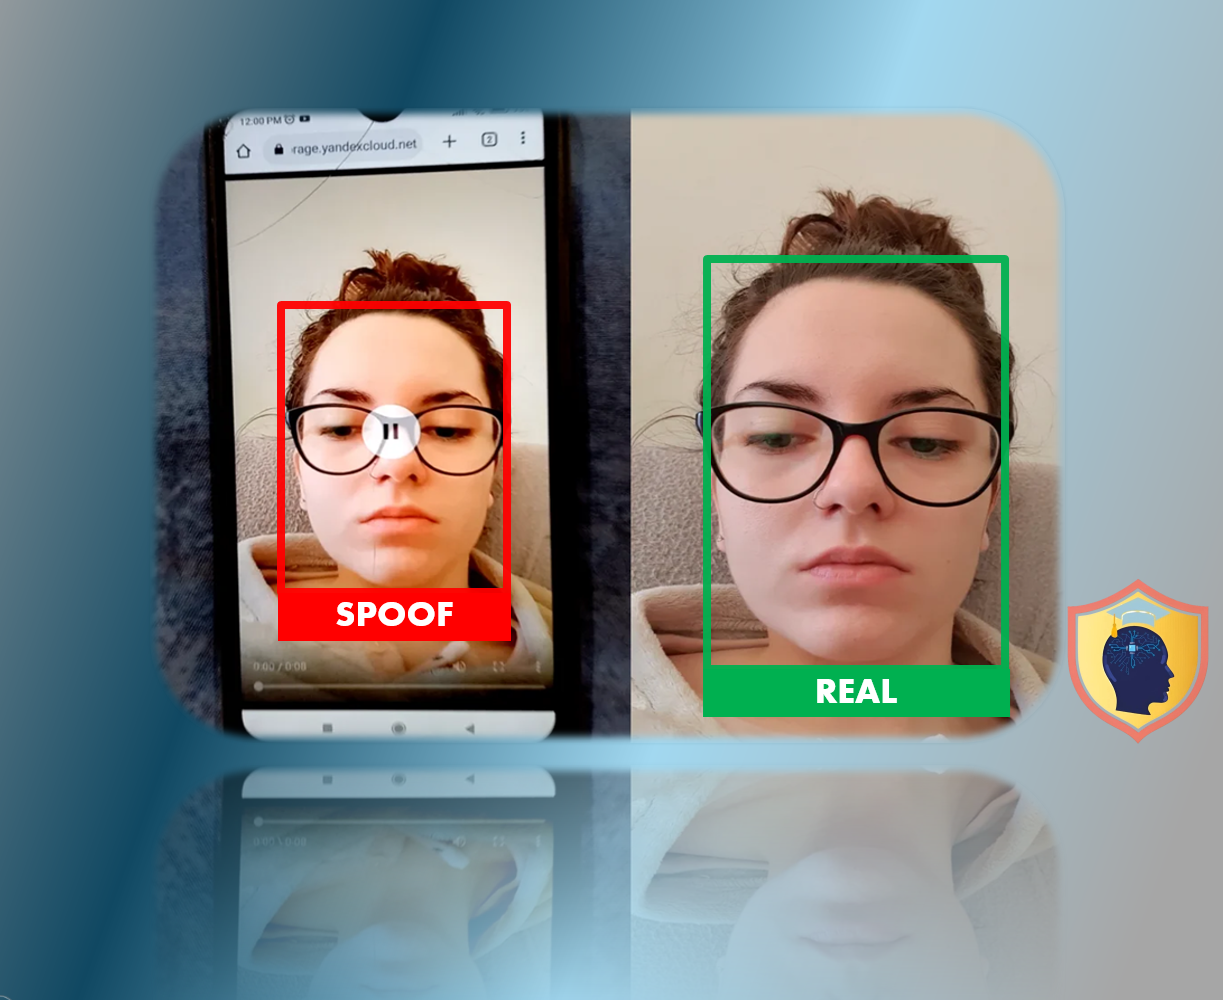
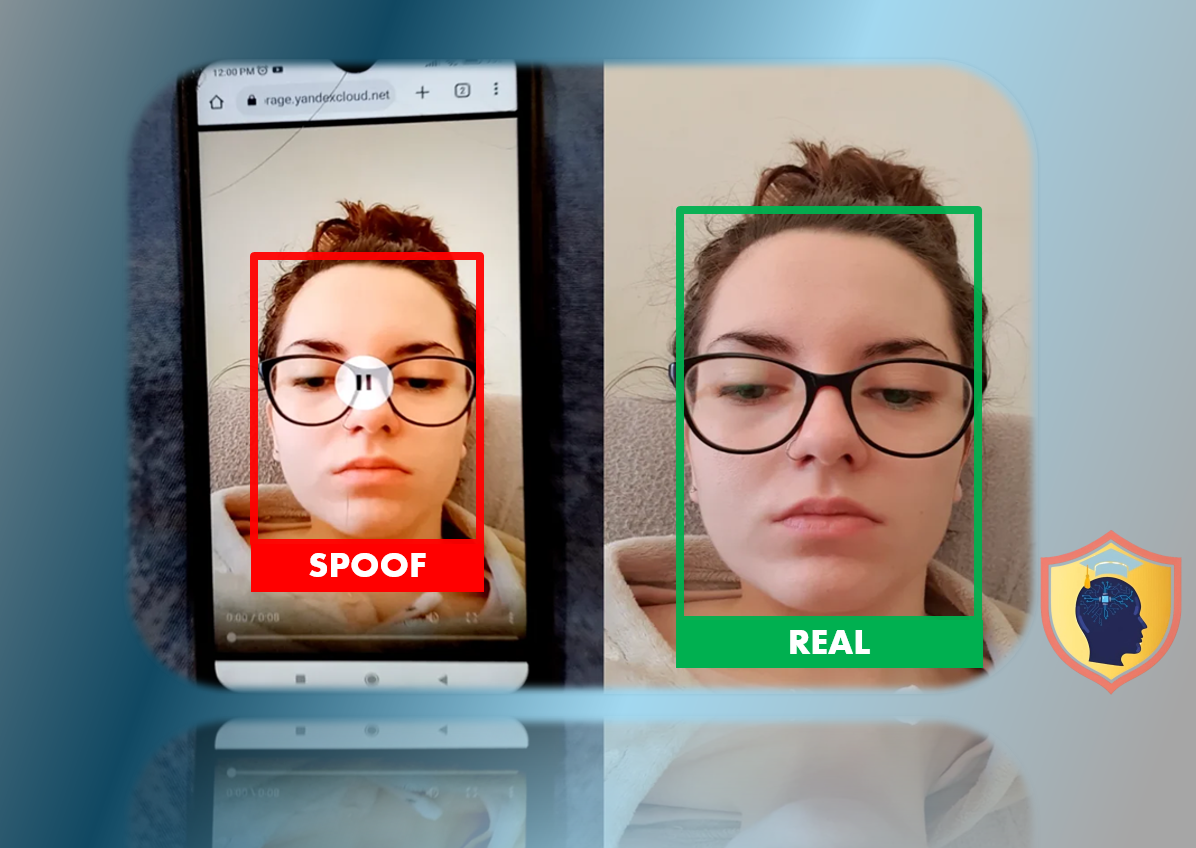
Change landing page style

diff --git a/src/components/ui/bento-grid/Bento.tsx b/src/components/ui/bento-grid/Bento.tsx
@@ -22,8 +22,9 @@ const BentoGrid = ({ children, className, ...props }: BentoGridProps) => {
   return (
     <div
       className={cn(
-        "grid container auto-rows-[25rem] grid-cols-4 gap-4",
+        "grid container grid-cols-4 gap-4 auto-rows-[19rem] sm:auto-rows-[20rem] md:auto-rows-[30rem] lg:auto-rows-[30rem] xl:auto-rows-[22rem]",
         className,
+        "bento-md-range",
       )}
       {...props}
     >

diff --git a/src/components/nurui/glowing-card.tsx b/src/components/nurui/glowing-card.tsx
@@ -55,7 +55,7 @@ export default function GlowingCardWithBackground({
           overflow: hidden;
           width: 100%;
           height: auto;
-          aspect-ratio: 1.5;
+          aspect-ratio: 1.8;
           border-radius: 0.5em;
 
           display: grid;
